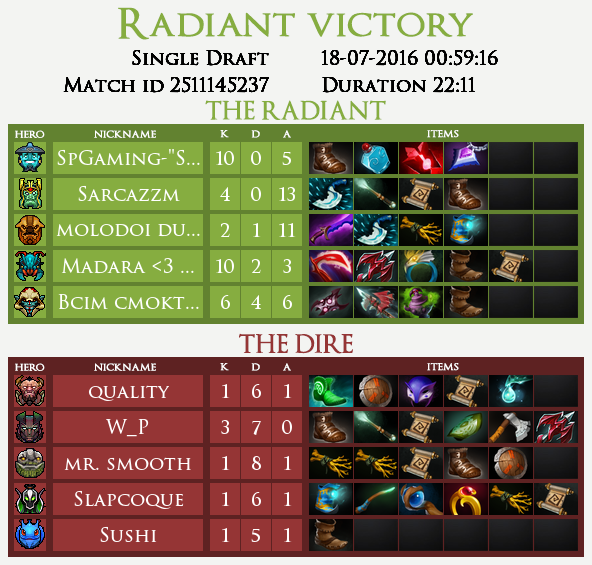
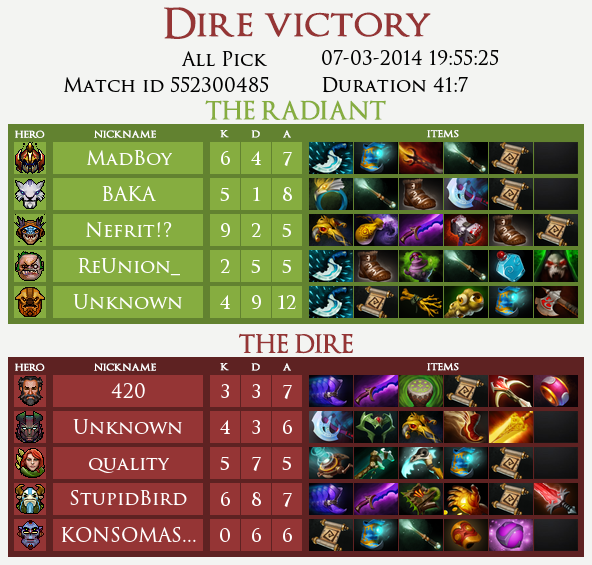
fix template issue

diff --git a/cogs/stats.py b/cogs/stats.py
@@ -13,16 +13,30 @@ class Stats:
     def __init__(self, bot):
         self.bot = bot
 
-    @commands.command(pass_context=True)
-    async def last(self, ctx, *, number: int):
-        """!last 0 - your last match"""
+    @commands.group(pass_context=True)
+    async def last(self, ctx):
+        """!last - your last match"""
+        if ctx.invoked_subcommand is None:
+            await bot.say('Invalid sub command passed')
+
+    @last.command(pass_context=True)
+    async def brief(self, ctx):
         player_id = db.get_acc_id(ctx.message.author.id, ctx.message.server.id)
-        reply = sf.last_match(player_id, number)  # !last 0 == last match
+        reply = sf.last_match(player_id, 0)
 
         await self.bot.send_file(
             ctx.message.channel, 'images/lineup/lineup.png', content=reply)
         await self.bot.send_file(
             ctx.message.channel, 'images/lineup/itemlist.png')
+
+    @last.command(pass_context=True)
+    async def full(self, ctx):
+        player_id = db.get_acc_id(ctx.message.author.id, ctx.message.server.id)
+        criteria = {'players.account_id': player_id}
+        matches = db.get_match_list(criteria)
+        match_id = matches[0]['match_id']
+        post_game(match_id)
+        await self.bot.send_file(ctx.message.channel, 'images/lineup/postgame.png')
 
     @commands.command(pass_context=True)
     async def p_last(self, ctx, number: int, *, player_name: str):
@@ -110,18 +124,6 @@ class Stats:
         await self.bot.say(reply)
 
     @commands.command(pass_context=True)
-    async def game_stat(self, ctx, match_number: int):
-        """End-game screen with kda and items for all players. !game_stat 0 - your last match"""
-        player_id = db.get_acc_id(ctx.message.author.id, ctx.message.server.id)
-        reply = sf.last_match(player_id, match_number)
-        sf.big_pic(player_id, match_number)
-        await self.bot.send_file(
-            ctx.message.channel,
-            'images/lineup/itemlist2.png',
-            content=reply
-            )
-
-    @commands.command(pass_context=True)
     async def hero_graph(self, ctx, hero_name):
         """Graph with your number of games played as a <hero_name> per month"""
         player_id = db.get_acc_id(ctx.message.author.id, ctx.message.server.id)
@@ -146,7 +148,8 @@ class Stats:
         await self.bot.say(reply)
 
     @commands.command(pass_context=True)
-    async def final_score(self, ctx, number: int):
+    async def game_stat(self, ctx, number: int):
+        """End-game screen with kda and items for all players. !game_stat 0 - your last match"""
         player_id = db.get_acc_id(ctx.message.author.id, ctx.message.server.id)
         criteria = {'players.account_id': player_id}
         matches = db.get_match_list(criteria)
@@ -154,7 +157,9 @@ class Stats:
             match_id = matches[number]['match_id']
         except ValueError:
             await self.bot.say("Invalid match number")
-        post_game(match_id)
-        await self.bot.send_file(ctx.message.channel, 'images/lineup/postgame.png')
+        else:
+            post_game(match_id)
+            await self.bot.send_file(ctx.message.channel, 'images/lineup/postgame.png')
+
 def setup(bot):
     bot.add_cog(Stats(bot))

diff --git a/cogs/utils/post_game_screen.py b/cogs/utils/post_game_screen.py
@@ -5,6 +5,7 @@ import datetime
 from token_and_api_key import *
 from .resources import db
 from .hero_dictionary import *
+
 def length_check(name, font):
     global draw
     n = 0
@@ -41,7 +42,7 @@ def fill_template(hero, item, team, match):
         for m in range(6):
             try:
                 item_name = item_dic[player['item_{}'.format(m)]]
-                
+
                 item = cv2.imread('images/items/{} icon.png'.format(item_name.lower()), -1)
                 item_list.append(item)
             except KeyError:
@@ -104,8 +105,9 @@ def post_game(match_id):
         date = datetime.datetime.fromtimestamp(
                 int(match['start_time'])).strftime('%d-%m-%Y %H:%M:%S')
 
-        write_param(269, 78, match_id, font)
-        write_param(269, 51, game_mode, font)
-        write_param(321, 78, duration, font)
-        write_param(321, 51, date, font)
-        im.save('images/lineup/postgame.png')
+    write_param(269, 78, match_id, font)
+    write_param(269, 51, game_mode, font)
+    write_param(321, 78, duration, font)
+    write_param(321, 51, date, font)
+
+    im.save('images/lineup/postgame.png')

diff --git a/cogs/utils/stat_func.py b/cogs/utils/stat_func.py
@@ -191,9 +191,8 @@ def last_match(player_id, match_number):
 
     # dotabuff = "http://www.dotabuff.com/matches/{}".format(last_match_id)
 
-    reply = """({game_mode}) {result} KDA: {kda}, Duration: {m}m{s}s,
-    played on {date} ({time_passed} ago), {game_status}""".format(**stats)
-    reply = reply.replace('\n', ' ')
+    reply = """{result}, KDA: {kda}, {game_status}""".format(**stats)
+    #reply = reply.replace('\n', ' ')
     return reply
 
 
@@ -273,7 +272,7 @@ def avg_stats_with_hero(player_id, hero_id):
     reply = reply.replace('\n', ' ')
     return reply
 
-
+''' # old post game_screen
 def big_pic(player_id, match_number):
     args = {
             'players.account_id': player_id}
@@ -395,7 +394,7 @@ def big_pic(player_id, match_number):
     pic2 = np.vstack(array3)
     pic3 = np.vstack([pic1, pic2])
     cv2.imwrite('images/lineup/itemlist2.png', pic3)
-
+'''
 # not used
 def winrate_solo(player_id):
     args = {

diff --git a/cogs/utils/misc.py b/cogs/utils/misc.py
@@ -1,5 +1,4 @@
 from token_and_api_key import *
-from .stat_func import big_pic
 from random import randint
 from random import shuffle
 from .hero_dictionary import hero_dic
